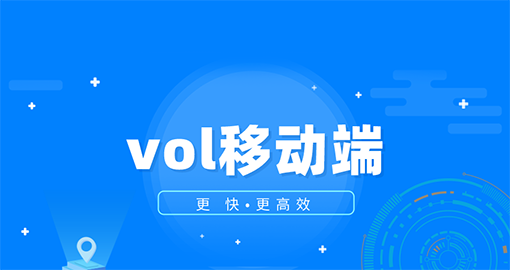
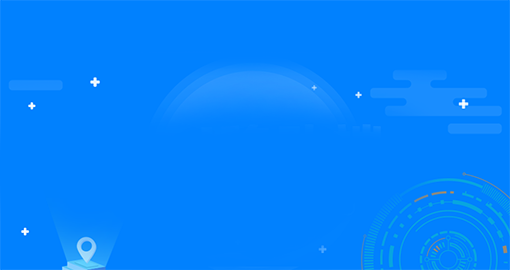
优化移动端首页

diff --git a/vol.uniapp/pages/home/home.vue b/vol.uniapp/pages/home/home.vue
@@ -1,26 +1,33 @@
 <template>
-	<view :style="{height:height+50+'px'}">
-		<u-swiper height="360rpx" :list="swiperList" :radius="0"></u-swiper>
-		<view style="padding:20rpx 20rpx 0 20rpx">
-			<vol-alert type="primary">
-				<view>1、VOL移动端基于uniapp、uview开发。</view>
-				<view>2、移动端与PC端同样自动控制权限。</view>
-				<view>3、移动端代码完全由代码生成器生成。</view>
-				<view>4、移动端与PC端同一套后台接口,开发方式不变。</view>
-				<view>5、移动端同样viewgrid、volform、voltable组件</view>
+	<view>
+		<image style="width: 100%;" mode="widthFix" src="/static/swiper1.png"></image>
+		<!-- 	<u-swiper height="360rpx" :list="swiperList" :radius="0"></u-swiper> -->
+		<view class="home-content">
+			<view class="app-name">vol框架移动端</view>
+			<view class="card-container">
+				<view class="fn-title">基础功能</view>
+				<u-grid :border="false" @click="gridClick" col="4">
+					<u-grid-item v-for="(item,index) in fn" :key="index">
+						<image style="width:90rpx;height: 90rpx;" :src="item.icon"></image>
+						<!-- <u-icon :customStyle="getStyle(item)" :name="item.icon" :size="22"></u-icon> -->
+						<view class="grid-text">{{item.name}}</view>
+					</u-grid-item>
+				</u-grid>
+			</view>
+			<view style="padding:30rpx;padding-top:0;">
+				<vol-alert type="primary">
+					<view>1、VOL移动端基于uniapp、uview开发。</view>
+					<view>2、移动端与PC端同样自动控制权限。</view>
+					<view>3、移动端代码完全由代码生成器生成。</view>
+					<view>4、移动端与PC端同一套后台接口,开发方式不变。</view>
+					<view>5、移动端同样viewgrid、volform、voltable组件</view>
 
-			</vol-alert>
+				</vol-alert>
+			</view>
+
 		</view>
-		<view class="card-container">
-			<view class="fn-title">基础功能</view>
-			<u-grid :border="false" @click="gridClick" col="4">
-				<u-grid-item v-for="(item,index) in fn" :key="index">
-					<image style="width:90rpx;height: 90rpx;" :src="item.icon"></image>
-					<!-- <u-icon :customStyle="getStyle(item)" :name="item.icon" :size="22"></u-icon> -->
-					<view class="grid-text">{{item.name}}</view>
-				</u-grid-item>
-			</u-grid>
-		</view>
+
+
 	</view>
 </template>
 
@@ -67,8 +74,7 @@
 				}
 			})
 		},
-		onShow() {
-		},
+		onShow() {},
 		methods: {
 			getStyle(item) {
 				return {
@@ -82,7 +88,7 @@
 			},
 			gridClick(index) {
 				uni.switchTab({
-					url:this.fn[index].path
+					url: this.fn[index].path
 				})
 			},
 			swiperClick(index) {
@@ -92,17 +98,35 @@
 	}
 </script>
 <style lang="less" scoped>
+	.home-content {
+		z-index: 999;
+		position: relative;
+		margin-top: -220rpx;
+	}
+
+	.app-name {
+		text-align: center;
+		color: #ffff;
+		font-weight: bolder;
+		font-size: 60rpx;
+		top: -40rpx;
+		position: relative;
+	}
+
 	.card-container {
-		box-shadow: 1px 1px 9px #efefef;
-		margin: 20rpx;
+	    box-shadow: 1px 1px 9px #b9b6b629;
+		margin: 30rpx 30rpx 30rpx 30rpx;
 		border: 1px solid #f1f1f1;
 		border-radius: 10rpx;
-		padding: 20rpx 4rpx;
+		padding: 40rpx 10rpx;
+		background: #ffff;
+
 
 		.fn-title {
-			font-size: 28rpx;
-			color: #8f9ca2;
-			padding: 4rpx 0 30rpx 20rpx;
+			font-size: 30rpx;
+			font-weight: bold;
+			//color: #8f9ca2;
+			padding: 4rpx 20rpx 30rpx 20rpx;
 		}
 
 		.grid-text {
